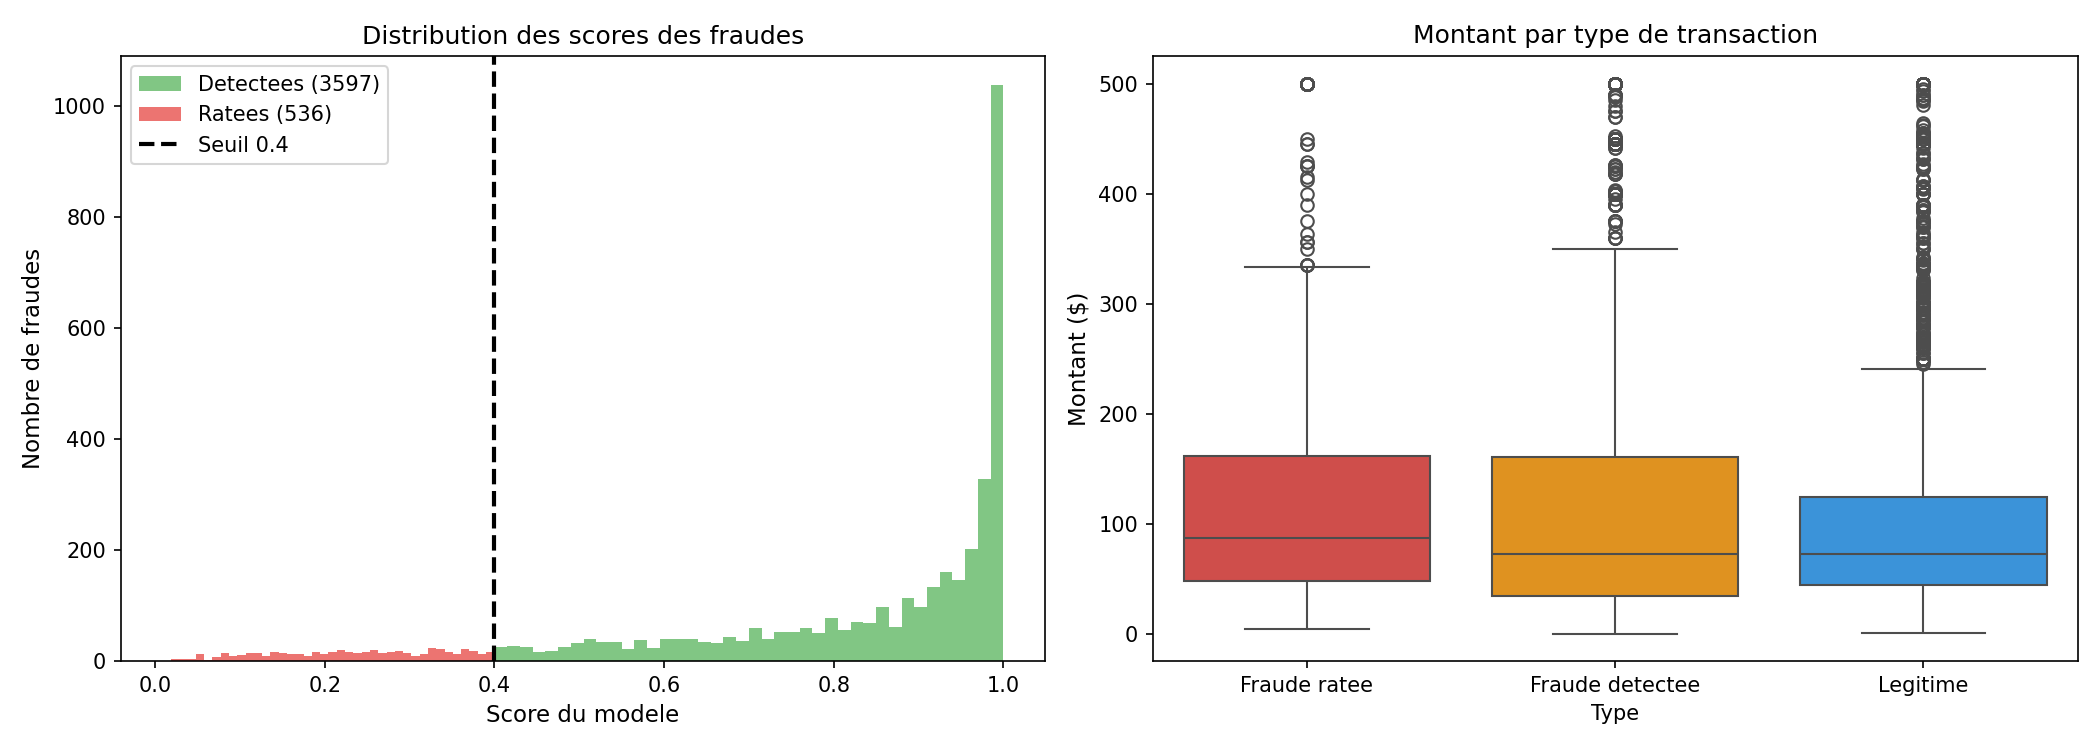
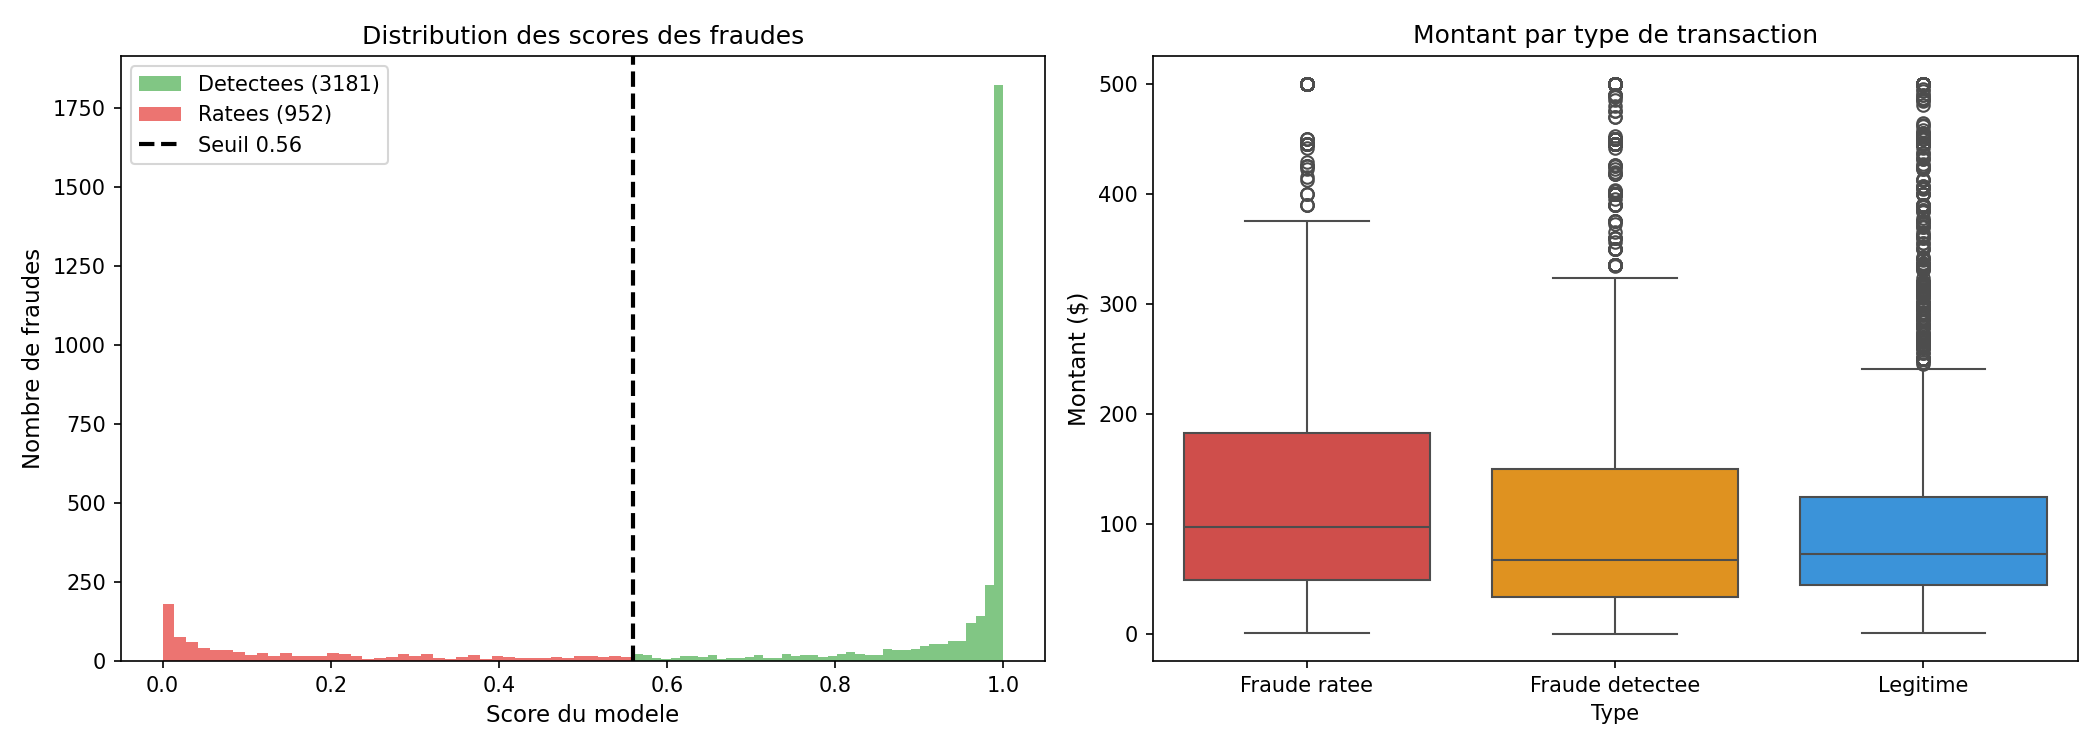
Analyser les fraudes ratees sur le modele final retenu
analyze_missed_frauds.py chargeait final_predictions.npz (ancien modele
AUC 0.9494) avec un seuil d'etude de 0.40. L'analyse porte desormais sur
tuned_predictions.npz au seuil de decision retenu de 0.56, le seuil 0.40
etant conserve en sensibilite.

  fraudes ratees      536 (13.0%)  -> 952 (23.0%)
  proches du seuil    169          -> 97
  score < 0.10        61           -> 458
  montant median      87$ / 73$    -> 97$ / 67$

Resultat metier nouveau : les fraudes ratees portent des montants
nettement plus eleves que les detectees (mediane 97$ contre 67$, moyenne
191$ contre 144$). L'estimation d'impact financier, qui applique un
montant moyen uniforme de 149$, est donc optimiste sur la partie non
detectee. Par ailleurs seuls 97 des 952 faux negatifs sont proches du
seuil : la marge par simple deplacement du seuil est faible.

diff --git a/capstone-ssl-fraud-detection/src/analyze_missed_frauds.py b/capstone-ssl-fraud-detection/src/analyze_missed_frauds.py
@@ -2,9 +2,14 @@
 =================================================================
 Analyse des fraudes non détectées
 =================================================================
-Les 536 fraudes avec un score < 0.40 passent sous le radar.
-Ce script analyse leur profil pour comprendre POURQUOI
-le modèle les rate et proposer des contre-mesures.
+Les fraudes dont le score reste sous le seuil de décision passent
+sous le radar. Ce script analyse leur profil pour comprendre
+POURQUOI le modèle les rate et proposer des contre-mesures.
+
+L'analyse est menée sur les prédictions du modèle final retenu
+(XGBoost optimisé, AUC 0.9718) : reports/results/tuned_predictions.npz.
+Seuil principal = 0.56 (seuil retenu). Un seuil plus permissif de
+0.40 est également calculé, à titre de sensibilité.
 
 Usage :
     python src/analyze_missed_frauds.py
@@ -25,7 +30,8 @@ RAW_DIR = os.path.join("..", "data", "raw")
 os.makedirs(FIGURES_DIR, exist_ok=True)
 os.makedirs(RESULTS_DIR, exist_ok=True)
 
-SEUIL = 0.40
+SEUIL = 0.56          # seuil de décision retenu pour le modèle final
+SEUIL_PERMISSIF = 0.40  # seuil de sensibilité, plus permissif
 
 
 def run():
@@ -33,9 +39,9 @@ def run():
     print("  ANALYSE DES FRAUDES NON DÉTECTÉES")
     print("=" * 60)
 
-    # 1. Charger les prédictions
+    # 1. Charger les prédictions du modèle final retenu
     print("\n1. Chargement des prédictions...")
-    preds = np.load(os.path.join(RESULTS_DIR, "final_predictions.npz"))
+    preds = np.load(os.path.join(RESULTS_DIR, "tuned_predictions.npz"))
     y_true = preds["y_true"]
     y_proba = preds["y_proba"]
 
@@ -198,7 +204,8 @@ def run():
                  ["Legitime"] * 5000)
     })
     palette = {"Fraude ratee": "#E53935", "Fraude detectee": "#FF9800", "Legitime": "#2196F3"}
-    sns.boxplot(data=data_box, x="Type", y="Montant", ax=axes[1], palette=palette)
+    sns.boxplot(data=data_box, x="Type", y="Montant", hue="Type", legend=False,
+                ax=axes[1], palette=palette)
     axes[1].set_title("Montant par type de transaction", fontsize=12)
     axes[1].set_ylabel("Montant ($)", fontsize=11)
 
@@ -207,15 +214,31 @@ def run():
     plt.close()
     print("   ✓ missed_frauds_analysis.png")
 
+    # Sensibilité : même analyse avec un seuil plus permissif
+    missed_perm = all_frauds[all_frauds["score"] < SEUIL_PERMISSIF]
+    close_perm = missed_perm[missed_perm["score"] >= SEUIL_PERMISSIF - 0.10]
+    very_low_perm = missed_perm[missed_perm["score"] < 0.10]
+
     # Sauvegarder le rapport
     with open(os.path.join(RESULTS_DIR, "missed_frauds_report.txt"), "w", encoding="utf-8") as f:
-        f.write(f"ANALYSE DES FRAUDES NON DETECTEES\n")
-        f.write(f"Seuil : {SEUIL}\n")
-        f.write(f"Fraudes ratees : {n_missed} / {n_total}\n\n")
+        f.write("ANALYSE DES FRAUDES NON DETECTEES\n")
+        f.write("Modele : XGBoost optimise (final), tuned_predictions.npz\n\n")
+
+        f.write(f"SEUIL RETENU : {SEUIL}\n")
+        f.write("-" * 40 + "\n")
+        f.write(f"Fraudes ratees : {n_missed} / {n_total} ({n_missed/n_total*100:.1f}%)\n")
         f.write(f"Montant median ratees    : ${missed['TransactionAmt'].median():.0f}\n")
-        f.write(f"Montant median detectees : ${detected['TransactionAmt'].median():.0f}\n\n")
-        f.write(f"Proches du seuil : {len(close)}\n")
-        f.write(f"Score tres bas   : {len(very_low)}\n")
+        f.write(f"Montant median detectees : ${detected['TransactionAmt'].median():.0f}\n")
+        f.write(f"Proches du seuil (>= {SEUIL-0.10:.2f}) : {len(close)}\n")
+        f.write(f"Score tres bas (< 0.10)   : {len(very_low)}\n\n")
+
+        f.write(f"SEUIL PERMISSIF (sensibilite) : {SEUIL_PERMISSIF}\n")
+        f.write("-" * 40 + "\n")
+        f.write(f"Fraudes ratees : {len(missed_perm)} / {n_total} "
+                f"({len(missed_perm)/n_total*100:.1f}%)\n")
+        f.write(f"Montant median ratees    : ${missed_perm['TransactionAmt'].median():.0f}\n")
+        f.write(f"Proches du seuil (>= {SEUIL_PERMISSIF-0.10:.2f}) : {len(close_perm)}\n")
+        f.write(f"Score tres bas (< 0.10)   : {len(very_low_perm)}\n")
     print("   ✓ missed_frauds_report.txt")
 
     print(f"\n{'='*60}")
